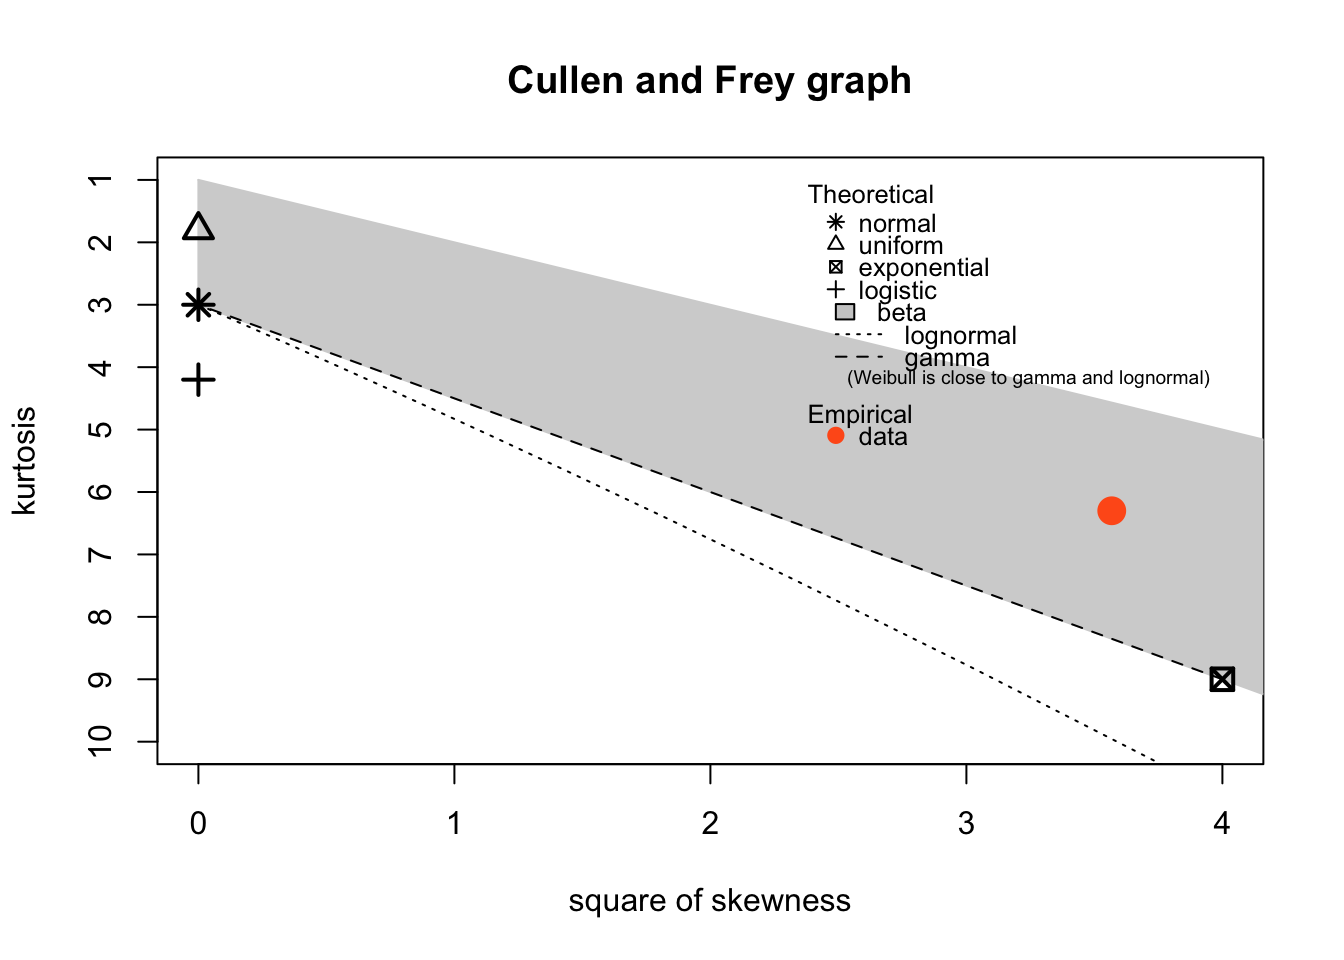
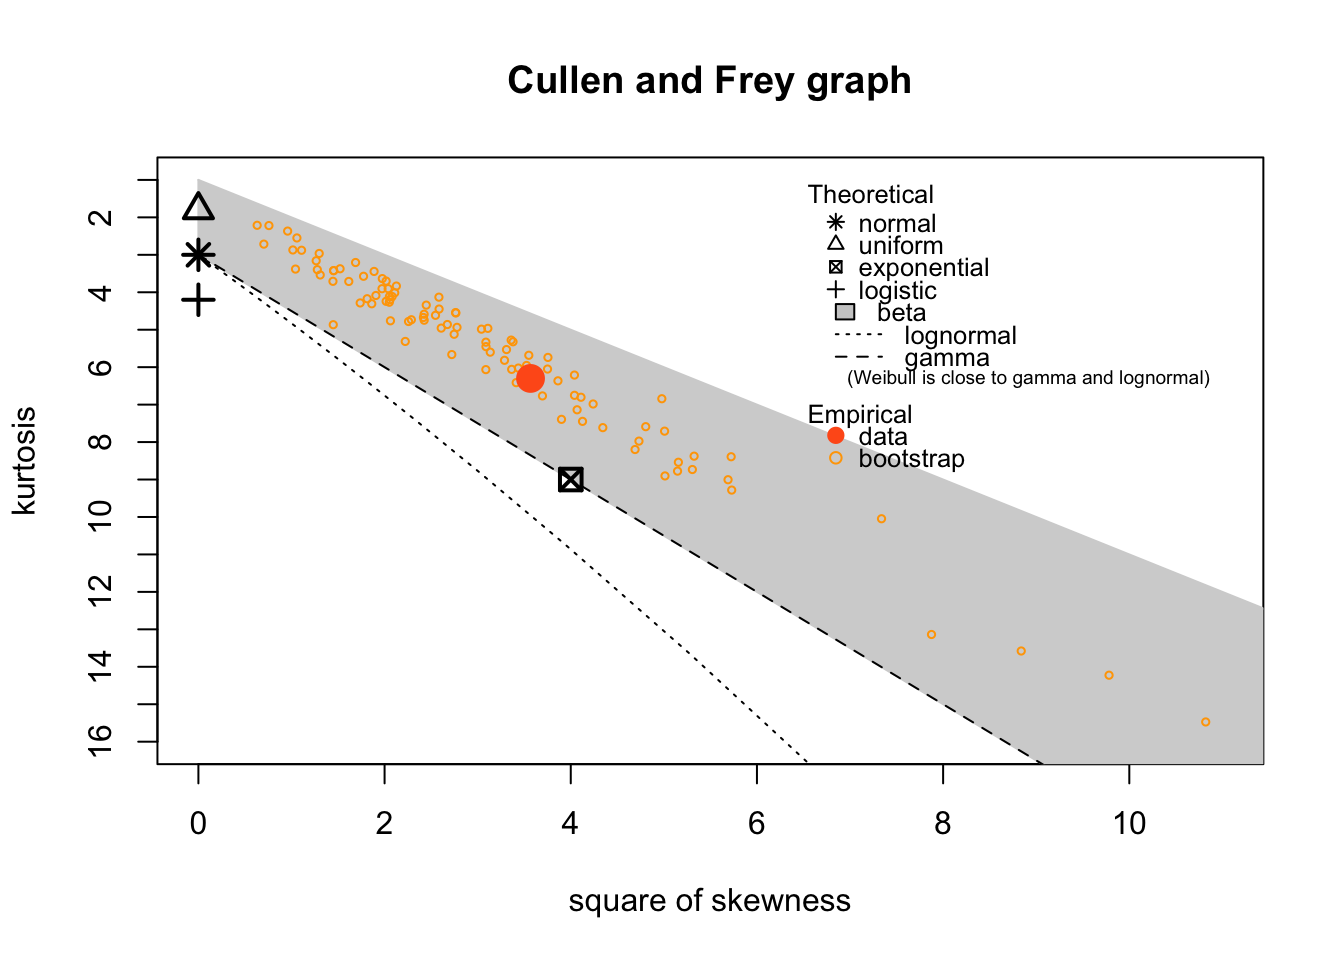
new version2

diff --git a/docs/scalefree.html b/docs/scalefree.html
@@ -292,7 +292,7 @@ out_ge &lt;- rosetta(autcon, reducer = &quot;Genetic&quot;, pAdjustMethod = &quo
 vals &lt;- unname(table(unlist(strsplit(out_jon$main$feature[which(out_jon$main$pValue&lt;0.05)], &quot;,&quot;))))
 freqs &lt;- table(vals)
   
-descdist(vals %&gt;% as.numeric, discrete = FALSE,obs.col = &quot;#FF5D1B&quot;)</code></pre>
+descdist(vals %&gt;% as.numeric, discrete = FALSE,obs.col = &quot;#FF5D1B&quot;, boot = 100)</code></pre>
 <p><img src="scalefree_files/figure-html/block1-1.png" width="672" /></p>
 <pre><code>## summary statistics
 ## ------
@@ -339,7 +339,7 @@ plot(jitter(bs$bootstraps[, 2], factor = 1.2), bs$bootstraps[, 3], pch = 19, col
 
 # P value
 bs_p$p</code></pre>
-<pre><code>## [1] 0.457</code></pre>
+<pre><code>## [1] 0.433</code></pre>
 <pre class="r"><code># Goodness of fit
 bs_p$gof</code></pre>
 <pre><code>## [1] 0.1213908</code></pre>
@@ -347,7 +347,7 @@ bs_p$gof</code></pre>
 vals &lt;- unname(table(unlist(strsplit(out_ge$main$features[which(out_ge$main$pValue&lt;0.01)], &quot;,&quot;))))
 freqs &lt;- table(vals)
 
-descdist(vals %&gt;% as.numeric, discrete = FALSE, obs.col = &quot;#FF5D1B&quot;)</code></pre>
+descdist(vals %&gt;% as.numeric, discrete = FALSE, obs.col = &quot;#FF5D1B&quot;, boot = 100)</code></pre>
 <p><img src="scalefree_files/figure-html/block1-5.png" width="672" /></p>
 <pre><code>## summary statistics
 ## ------
@@ -394,7 +394,7 @@ plot(jitter(bs$bootstraps[, 2], factor = 1.2), bs$bootstraps[, 3], pch = 19, col
 
 # P value
 bs_p$p</code></pre>
-<pre><code>## [1] 0.187</code></pre>
+<pre><code>## [1] 0.155</code></pre>
 <pre class="r"><code># Goodness of fit
 bs_p$gof</code></pre>
 <pre><code>## [1] 0.1245143</code></pre>

diff --git a/docs/scdata.html b/docs/scdata.html
@@ -5747,7 +5747,7 @@ rls = rls$features[which(rls$coverageRHS&gt;0.2)]
 vals &lt;- unname(table(unlist(strsplit(rls[grep(&quot;,&quot;,rls)], &quot;,&quot;))))
 freqs &lt;- table(vals)
 
-descdist(vals %&gt;% as.numeric, discrete = FALSE,obs.col = &quot;#FF5D1B&quot;)</code></pre>
+descdist(vals %&gt;% as.numeric, discrete = FALSE,obs.col = &quot;#FF5D1B&quot;, boot = 100)</code></pre>
 <p><img src="scdata_files/figure-html/block9-1.png" width="672" /></p>
 </div>
 <div id="the-degree-distribution-of-network" class="section level2">
